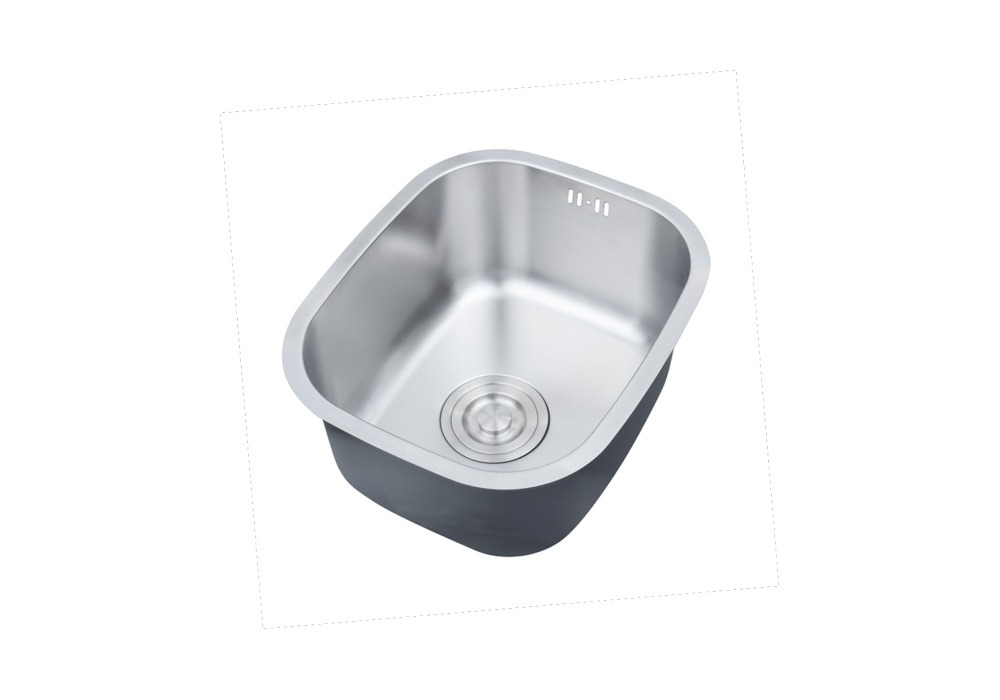
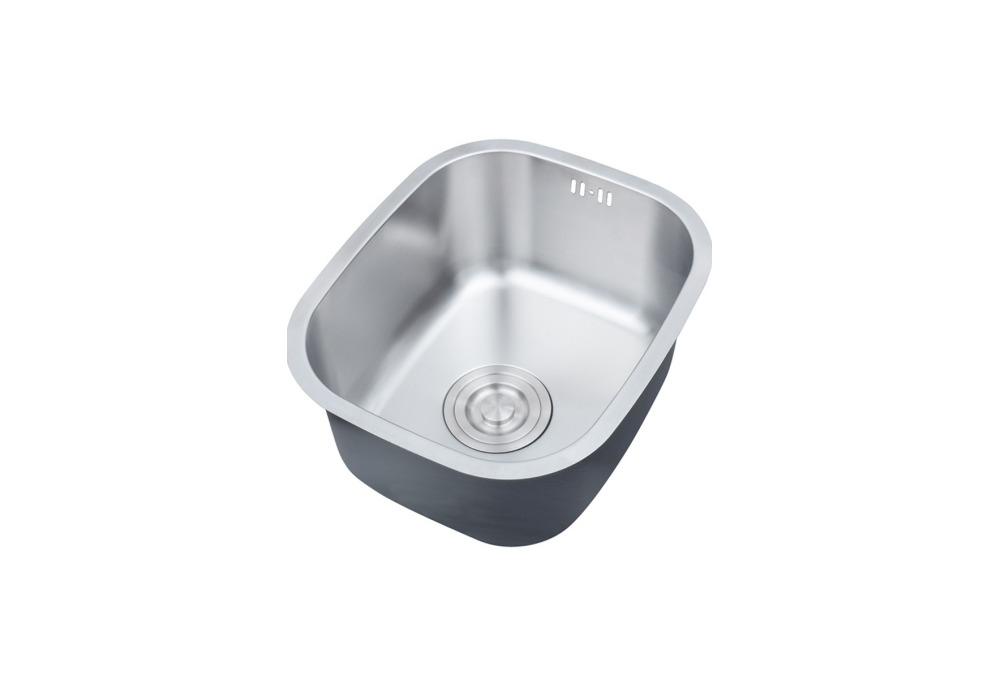
Fix sink image cache and source border (#70)

Changed region(s): [[0.279, 0.36, 0.682, 0.72], [0.279, 0.18, 0.713, 0.45], [0.341, 0.66, 0.589, 0.81]]

diff --git a/products/handmade-undermount-black-sink-series-06-07.html b/products/handmade-undermount-black-sink-series-06-07.html
@@ -4,4 +4,4 @@
 <meta charset="utf-8"><base href="/"><title>Handmade Undermount Black Sink Series | IanProject</title><meta name="viewport" content="width=device-width, initial-scale=1.0"><meta name="description" content="Handmade 304 stainless steel undermount black sink series with honeycomb-texture and nano-black finishes. Models 6843, 4540, 4035, 5540 and 6040. USD 11-46 per unit."><meta name="robots" content="index, follow, max-image-preview:large"><link rel="canonical" href="https://ianproject.com/products/handmade-undermount-black-sink-series-06-07"><meta property="og:type" content="product"><meta property="og:site_name" content="IanProject"><meta property="og:title" content="Handmade Undermount Black Sink Series | IanProject"><meta property="og:description" content="Handmade black undermount sinks in honeycomb-texture and nano-black finishes from catalogue pages 06 and 07."><meta property="og:url" content="https://ianproject.com/products/handmade-undermount-black-sink-series-06-07"><meta property="og:image" content="https://ianproject.com/img/products/handmade-undermount-black-sinks/1.jpg"><meta name="twitter:card" content="summary_large_image"><script type="application/ld+json">{"@context":"https://schema.org","@type":"Product","name":"Handmade Undermount Black Sink Series","image":["https://ianproject.com/img/products/handmade-undermount-black-sinks/1.jpg","https://ianproject.com/img/products/handmade-undermount-black-sinks/2.jpg","https://ianproject.com/img/products/handmade-undermount-black-sinks/3.jpg","https://ianproject.com/img/products/handmade-undermount-black-sinks/4.jpg"],"description":"Handmade 304 stainless steel undermount sinks with honeycomb-texture black and nano-black finishes.","sku":"6843-6040","category":"Kitchen Sinks","material":"304 stainless steel","offers":{"@type":"AggregateOffer","lowPrice":"11","highPrice":"46","priceCurrency":"USD","availability":"https://schema.org/PreOrder","seller":{"@type":"Organization","name":"IanProject"}}}</script><link href="img/favicon.svg" rel="icon"><link href="https://fonts.googleapis.com/css2?family=Open+Sans&family=Space+Grotesk&display=swap" rel="stylesheet"><link href="https://cdnjs.cloudflare.com/ajax/libs/font-awesome/5.10.0/css/all.min.css" rel="stylesheet"><link href="https://cdn.jsdelivr.net/npm/bootstrap-icons@1.4.1/font/bootstrap-icons.css" rel="stylesheet"><link href="css/bootstrap.min.css" rel="stylesheet"><link href="css/style.css?v=20260811-flooring" rel="stylesheet"></head><body>
 <div class="container-fluid sticky-top bg-light"><div class="container"><nav class="navbar navbar-expand-lg navbar-light bg-light border-bottom border-2 border-white"><a href="/" class="navbar-brand"><span class="site-brand mb-0">IAN<span class="text-primary">PROJECT</span></span></a><button class="navbar-toggler ms-auto me-0" data-bs-toggle="collapse" data-bs-target="#navbarCollapse" aria-label="Open navigation"><span class="navbar-toggler-icon"></span></button><div class="collapse navbar-collapse" id="navbarCollapse"><div class="navbar-nav ms-auto"><a href="/" class="nav-item nav-link">Home</a><a href="products" class="nav-item nav-link active">Products</a><a href="custom-solutions" class="nav-item nav-link">Custom Solutions</a><a href="about" class="nav-item nav-link">About</a><a href="contact" class="nav-item nav-link">Contact</a></div></div></nav></div></div><div class="container-fluid py-5 hero-header bg-light mb-5"><div class="container py-4"></div></div>
 <main class="container-fluid py-5"><article id="product-detail" class="container py-4" data-product-id="handmade-undermount-black-sink-series-06-07"><div class="row g-5 align-items-start"><div class="col-lg-6"><div class="product-detail-image"><img src="img/products/handmade-undermount-black-sinks/1.jpg" alt="Model 6843 handmade black undermount stainless steel sink" width="1200" height="1200" fetchpriority="high" decoding="async"></div></div><div class="col-lg-6"><p class="text-uppercase text-primary mb-2">Sinks / 6843-6040</p><h1>Handmade Undermount Black Sink Series</h1><p class="mb-4">Handmade 304 stainless steel undermount sinks in honeycomb-texture black and nano-black finishes.</p><div class="catalog-price"><strong>USD 11.00 - 46.00</strong><small>per unit</small></div><div class="d-flex flex-wrap gap-3"><a class="btn btn-primary px-4 py-3" href="/contact#quote-builder-form">Contact</a></div></div></div></article></main>
-<div class="container-fluid bg-dark text-white-50 footer pt-5"><div class="container py-5"><div class="row g-5"><div class="col-md-6"><a href="/"><h2 class="text-white">IANPROJECT</h2></a><p>Home products, custom furniture and interior solutions for international projects.</p></div><div class="col-md-6"><h5 class="text-white mb-4">Product Enquiries</h5><p><i class="fa fa-envelope me-3"></i>sales@ianproject.com</p><p><i class="fab fa-whatsapp me-3"></i>+86 199 5622 9033</p></div></div></div></div><script src="https://cdn.jsdelivr.net/npm/bootstrap@5.0.0/dist/js/bootstrap.bundle.min.js"></script><script src="js/catalog-data.js?v=20260811-flooring"></script><script src="js/catalog.js?v=20260813-pdf-sink-images"></script></body></html>
+<div class="container-fluid bg-dark text-white-50 footer pt-5"><div class="container py-5"><div class="row g-5"><div class="col-md-6"><a href="/"><h2 class="text-white">IANPROJECT</h2></a><p>Home products, custom furniture and interior solutions for international projects.</p></div><div class="col-md-6"><h5 class="text-white mb-4">Product Enquiries</h5><p><i class="fa fa-envelope me-3"></i>sales@ianproject.com</p><p><i class="fab fa-whatsapp me-3"></i>+86 199 5622 9033</p></div></div></div></div><script src="https://cdn.jsdelivr.net/npm/bootstrap@5.0.0/dist/js/bootstrap.bundle.min.js"></script><script src="js/catalog-data.js?v=20260811-flooring"></script><script src="js/catalog.js?v=20260813-pdf-sink-images-v2"></script></body></html>

diff --git a/products/handmade-topmount-sink-series-05.html b/products/handmade-topmount-sink-series-05.html
@@ -4,4 +4,4 @@
 <meta charset="utf-8"><base href="/"><title>Handmade Topmount Single-Bowl Sink Series | IanProject</title><meta name="viewport" content="width=device-width, initial-scale=1.0"><meta name="description" content="Handmade 304 stainless steel topmount single-bowl sink series with models 5040, 5243, 5545, 6045, 6845, 6848, 7548 and 8248. USD 14-53 per unit."><meta name="robots" content="index, follow, max-image-preview:large"><link rel="canonical" href="https://ianproject.com/products/handmade-topmount-sink-series-05"><meta property="og:type" content="product"><meta property="og:site_name" content="IanProject"><meta property="og:title" content="Handmade Topmount Single-Bowl Sink Series | IanProject"><meta property="og:description" content="Eight handmade 304 stainless steel topmount single-bowl sink models from catalogue page 05."><meta property="og:url" content="https://ianproject.com/products/handmade-topmount-sink-series-05"><meta property="og:image" content="https://ianproject.com/img/products/handmade-topmount-single-bowl-sinks/1.jpg"><meta name="twitter:card" content="summary_large_image"><script type="application/ld+json">{"@context":"https://schema.org","@type":"Product","name":"Handmade Topmount Single-Bowl Sink Series","image":["https://ianproject.com/img/products/handmade-topmount-single-bowl-sinks/1.jpg","https://ianproject.com/img/products/handmade-topmount-single-bowl-sinks/2.jpg","https://ianproject.com/img/products/handmade-topmount-single-bowl-sinks/3.jpg"],"description":"Handmade 304 stainless steel topmount single-bowl sink series with eight model options.","sku":"5040-8248","category":"Kitchen Sinks","material":"304 stainless steel","offers":{"@type":"AggregateOffer","lowPrice":"14","highPrice":"53","priceCurrency":"USD","availability":"https://schema.org/PreOrder","seller":{"@type":"Organization","name":"IanProject"}}}</script><link href="img/favicon.svg" rel="icon"><link href="https://fonts.googleapis.com/css2?family=Open+Sans&family=Space+Grotesk&display=swap" rel="stylesheet"><link href="https://cdnjs.cloudflare.com/ajax/libs/font-awesome/5.10.0/css/all.min.css" rel="stylesheet"><link href="https://cdn.jsdelivr.net/npm/bootstrap-icons@1.4.1/font/bootstrap-icons.css" rel="stylesheet"><link href="css/bootstrap.min.css" rel="stylesheet"><link href="css/style.css?v=20260811-flooring" rel="stylesheet"></head><body>
 <div class="container-fluid sticky-top bg-light"><div class="container"><nav class="navbar navbar-expand-lg navbar-light bg-light border-bottom border-2 border-white"><a href="/" class="navbar-brand"><span class="site-brand mb-0">IAN<span class="text-primary">PROJECT</span></span></a><button class="navbar-toggler ms-auto me-0" data-bs-toggle="collapse" data-bs-target="#navbarCollapse" aria-label="Open navigation"><span class="navbar-toggler-icon"></span></button><div class="collapse navbar-collapse" id="navbarCollapse"><div class="navbar-nav ms-auto"><a href="/" class="nav-item nav-link">Home</a><a href="products" class="nav-item nav-link active">Products</a><a href="custom-solutions" class="nav-item nav-link">Custom Solutions</a><a href="about" class="nav-item nav-link">About</a><a href="contact" class="nav-item nav-link">Contact</a></div></div></nav></div></div><div class="container-fluid py-5 hero-header bg-light mb-5"><div class="container py-4"></div></div>
 <main class="container-fluid py-5"><article id="product-detail" class="container py-4" data-product-id="handmade-topmount-sink-series-05"><div class="row g-5 align-items-start"><div class="col-lg-6"><div class="product-detail-image"><img src="img/products/handmade-topmount-single-bowl-sinks/1.jpg" alt="Handmade 304 stainless steel topmount single-bowl sink model 5040" width="1200" height="1200" fetchpriority="high" decoding="async"></div></div><div class="col-lg-6"><p class="text-uppercase text-primary mb-2">Sinks / 5040-8248</p><h1>Handmade Topmount Single-Bowl Sink Series</h1><p class="mb-4">Handmade 304 stainless steel topmount single-bowl sinks in eight sizes.</p><div class="catalog-price"><strong>USD 14.00 - 53.00</strong><small>per unit</small></div><div class="d-flex flex-wrap gap-3"><a class="btn btn-primary px-4 py-3" href="/contact#quote-builder-form">Contact</a></div></div></div></article></main>
-<div class="container-fluid bg-dark text-white-50 footer pt-5"><div class="container py-5"><div class="row g-5"><div class="col-md-6"><a href="/"><h2 class="text-white">IANPROJECT</h2></a><p>Home products, custom furniture and interior solutions for international projects.</p></div><div class="col-md-6"><h5 class="text-white mb-4">Product Enquiries</h5><p><i class="fa fa-envelope me-3"></i>sales@ianproject.com</p><p><i class="fab fa-whatsapp me-3"></i>+86 199 5622 9033</p></div></div></div></div><script src="https://cdn.jsdelivr.net/npm/bootstrap@5.0.0/dist/js/bootstrap.bundle.min.js"></script><script src="js/catalog-data.js?v=20260811-flooring"></script><script src="js/catalog.js?v=20260813-pdf-sink-images"></script></body></html>
+<div class="container-fluid bg-dark text-white-50 footer pt-5"><div class="container py-5"><div class="row g-5"><div class="col-md-6"><a href="/"><h2 class="text-white">IANPROJECT</h2></a><p>Home products, custom furniture and interior solutions for international projects.</p></div><div class="col-md-6"><h5 class="text-white mb-4">Product Enquiries</h5><p><i class="fa fa-envelope me-3"></i>sales@ianproject.com</p><p><i class="fab fa-whatsapp me-3"></i>+86 199 5622 9033</p></div></div></div></div><script src="https://cdn.jsdelivr.net/npm/bootstrap@5.0.0/dist/js/bootstrap.bundle.min.js"></script><script src="js/catalog-data.js?v=20260811-flooring"></script><script src="js/catalog.js?v=20260813-pdf-sink-images-v2"></script></body></html>

diff --git a/products/handmade-undermount-stainless-sink-series-08.html b/products/handmade-undermount-stainless-sink-series-08.html
@@ -4,4 +4,4 @@
 <meta charset="utf-8"><base href="/"><title>Handmade Undermount Stainless Steel Sink Series | IanProject</title><meta name="viewport" content="width=device-width, initial-scale=1.0"><meta name="description" content="Handmade 304 stainless steel undermount sink series with twelve sizes from model 4035 to 8146. USD 13-50 per unit."><meta name="robots" content="index, follow, max-image-preview:large"><link rel="canonical" href="https://ianproject.com/products/handmade-undermount-stainless-sink-series-08"><meta property="og:type" content="product"><meta property="og:site_name" content="IanProject"><meta property="og:title" content="Handmade Undermount Stainless Steel Sink Series | IanProject"><meta property="og:description" content="Twelve handmade 304 stainless steel undermount sink sizes from catalogue page 08."><meta property="og:url" content="https://ianproject.com/products/handmade-undermount-stainless-sink-series-08"><meta property="og:image" content="https://ianproject.com/img/products/handmade-undermount-silver-sinks/1.jpg"><meta name="twitter:card" content="summary_large_image"><script type="application/ld+json">{"@context":"https://schema.org","@type":"Product","name":"Handmade Undermount Stainless Steel Sink Series","image":["https://ianproject.com/img/products/handmade-undermount-silver-sinks/1.jpg","https://ianproject.com/img/products/handmade-undermount-silver-sinks/2.jpg","https://ianproject.com/img/products/handmade-undermount-silver-sinks/3.jpg"],"description":"Handmade 304 stainless steel undermount sink series with twelve size options.","sku":"8146-4035","category":"Kitchen Sinks","material":"304 stainless steel","offers":{"@type":"AggregateOffer","lowPrice":"13","highPrice":"50","priceCurrency":"USD","availability":"https://schema.org/PreOrder","seller":{"@type":"Organization","name":"IanProject"}}}</script><link href="img/favicon.svg" rel="icon"><link href="https://fonts.googleapis.com/css2?family=Open+Sans&family=Space+Grotesk&display=swap" rel="stylesheet"><link href="https://cdnjs.cloudflare.com/ajax/libs/font-awesome/5.10.0/css/all.min.css" rel="stylesheet"><link href="https://cdn.jsdelivr.net/npm/bootstrap-icons@1.4.1/font/bootstrap-icons.css" rel="stylesheet"><link href="css/bootstrap.min.css" rel="stylesheet"><link href="css/style.css?v=20260811-flooring" rel="stylesheet"></head><body>
 <div class="container-fluid sticky-top bg-light"><div class="container"><nav class="navbar navbar-expand-lg navbar-light bg-light border-bottom border-2 border-white"><a href="/" class="navbar-brand"><span class="site-brand mb-0">IAN<span class="text-primary">PROJECT</span></span></a><button class="navbar-toggler ms-auto me-0" data-bs-toggle="collapse" data-bs-target="#navbarCollapse" aria-label="Open navigation"><span class="navbar-toggler-icon"></span></button><div class="collapse navbar-collapse" id="navbarCollapse"><div class="navbar-nav ms-auto"><a href="/" class="nav-item nav-link">Home</a><a href="products" class="nav-item nav-link active">Products</a><a href="custom-solutions" class="nav-item nav-link">Custom Solutions</a><a href="about" class="nav-item nav-link">About</a><a href="contact" class="nav-item nav-link">Contact</a></div></div></nav></div></div><div class="container-fluid py-5 hero-header bg-light mb-5"><div class="container py-4"></div></div>
 <main class="container-fluid py-5"><article id="product-detail" class="container py-4" data-product-id="handmade-undermount-stainless-sink-series-08"><div class="row g-5 align-items-start"><div class="col-lg-6"><div class="product-detail-image"><img src="img/products/handmade-undermount-silver-sinks/1.jpg" alt="Handmade 304 stainless steel undermount sink model 8146" width="1200" height="1200" fetchpriority="high" decoding="async"></div></div><div class="col-lg-6"><p class="text-uppercase text-primary mb-2">Sinks / 8146-4035</p><h1>Handmade Undermount Stainless Steel Sink Series</h1><p class="mb-4">Handmade 304 stainless steel undermount sinks in twelve sizes.</p><div class="catalog-price"><strong>USD 13.00 - 50.00</strong><small>per unit</small></div><div class="d-flex flex-wrap gap-3"><a class="btn btn-primary px-4 py-3" href="/contact#quote-builder-form">Contact</a></div></div></div></article></main>
-<div class="container-fluid bg-dark text-white-50 footer pt-5"><div class="container py-5"><div class="row g-5"><div class="col-md-6"><a href="/"><h2 class="text-white">IANPROJECT</h2></a><p>Home products, custom furniture and interior solutions for international projects.</p></div><div class="col-md-6"><h5 class="text-white mb-4">Product Enquiries</h5><p><i class="fa fa-envelope me-3"></i>sales@ianproject.com</p><p><i class="fab fa-whatsapp me-3"></i>+86 199 5622 9033</p></div></div></div></div><script src="https://cdn.jsdelivr.net/npm/bootstrap@5.0.0/dist/js/bootstrap.bundle.min.js"></script><script src="js/catalog-data.js?v=20260811-flooring"></script><script src="js/catalog.js?v=20260813-pdf-sink-images"></script></body></html>
+<div class="container-fluid bg-dark text-white-50 footer pt-5"><div class="container py-5"><div class="row g-5"><div class="col-md-6"><a href="/"><h2 class="text-white">IANPROJECT</h2></a><p>Home products, custom furniture and interior solutions for international projects.</p></div><div class="col-md-6"><h5 class="text-white mb-4">Product Enquiries</h5><p><i class="fa fa-envelope me-3"></i>sales@ianproject.com</p><p><i class="fab fa-whatsapp me-3"></i>+86 199 5622 9033</p></div></div></div></div><script src="https://cdn.jsdelivr.net/npm/bootstrap@5.0.0/dist/js/bootstrap.bundle.min.js"></script><script src="js/catalog-data.js?v=20260811-flooring"></script><script src="js/catalog.js?v=20260813-pdf-sink-images-v2"></script></body></html>

diff --git a/products/handmade-topmount-sink-series-04.html b/products/handmade-topmount-sink-series-04.html
@@ -4,4 +4,4 @@
 <meta charset="utf-8"><base href="/"><title>Handmade Topmount Sink Series | IanProject</title><meta name="viewport" content="width=device-width, initial-scale=1.0"><meta name="description" content="Handmade 304 stainless steel topmount sink series with models 8248, 8245, 7843, 8045, 7541 and 7240. USD 12-48 per unit."><meta name="robots" content="index, follow, max-image-preview:large"><link rel="canonical" href="https://ianproject.com/products/handmade-topmount-sink-series-04"><meta property="og:type" content="product"><meta property="og:site_name" content="IanProject"><meta property="og:title" content="Handmade Topmount Sink Series | IanProject"><meta property="og:description" content="Six handmade 304 stainless steel topmount sink models from catalogue page 04."><meta property="og:url" content="https://ianproject.com/products/handmade-topmount-sink-series-04"><meta property="og:image" content="https://ianproject.com/img/products/handmade-topmount-double-bowl-sinks/1.jpg"><meta name="twitter:card" content="summary_large_image"><script type="application/ld+json">{"@context":"https://schema.org","@type":"Product","name":"Handmade Topmount Sink Series","image":["https://ianproject.com/img/products/handmade-topmount-double-bowl-sinks/1.jpg","https://ianproject.com/img/products/handmade-topmount-double-bowl-sinks/2.jpg","https://ianproject.com/img/products/handmade-topmount-double-bowl-sinks/3.jpg"],"description":"Handmade 304 stainless steel topmount sink series with six model options.","sku":"8248-7240","category":"Kitchen Sinks","material":"304 stainless steel","offers":{"@type":"AggregateOffer","lowPrice":"12","highPrice":"48","priceCurrency":"USD","availability":"https://schema.org/PreOrder","seller":{"@type":"Organization","name":"IanProject"}}}</script><link href="img/favicon.svg" rel="icon"><link href="https://fonts.googleapis.com/css2?family=Open+Sans&family=Space+Grotesk&display=swap" rel="stylesheet"><link href="https://cdnjs.cloudflare.com/ajax/libs/font-awesome/5.10.0/css/all.min.css" rel="stylesheet"><link href="https://cdn.jsdelivr.net/npm/bootstrap-icons@1.4.1/font/bootstrap-icons.css" rel="stylesheet"><link href="css/bootstrap.min.css" rel="stylesheet"><link href="css/style.css?v=20260811-flooring" rel="stylesheet"></head><body>
 <div class="container-fluid sticky-top bg-light"><div class="container"><nav class="navbar navbar-expand-lg navbar-light bg-light border-bottom border-2 border-white"><a href="/" class="navbar-brand"><span class="site-brand mb-0">IAN<span class="text-primary">PROJECT</span></span></a><button class="navbar-toggler ms-auto me-0" data-bs-toggle="collapse" data-bs-target="#navbarCollapse" aria-label="Open navigation"><span class="navbar-toggler-icon"></span></button><div class="collapse navbar-collapse" id="navbarCollapse"><div class="navbar-nav ms-auto"><a href="/" class="nav-item nav-link">Home</a><a href="products" class="nav-item nav-link active">Products</a><a href="custom-solutions" class="nav-item nav-link">Custom Solutions</a><a href="about" class="nav-item nav-link">About</a><a href="contact" class="nav-item nav-link">Contact</a></div></div></nav></div></div><div class="container-fluid py-5 hero-header bg-light mb-5"><div class="container py-4"></div></div>
 <main class="container-fluid py-5"><article id="product-detail" class="container py-4" data-product-id="handmade-topmount-sink-series-04"><div class="row g-5 align-items-start"><div class="col-lg-6"><div class="product-detail-image"><img src="img/products/handmade-topmount-double-bowl-sinks/1.jpg" alt="Handmade 304 stainless steel topmount sink model 8248" width="1200" height="1200" fetchpriority="high" decoding="async"></div></div><div class="col-lg-6"><p class="text-uppercase text-primary mb-2">Sinks / 8248-7240</p><h1>Handmade Topmount Sink Series</h1><p class="mb-4">Handmade 304 stainless steel topmount sinks in six sizes.</p><div class="catalog-price"><strong>USD 12.00 - 48.00</strong><small>per unit</small></div><div class="d-flex flex-wrap gap-3"><a class="btn btn-primary px-4 py-3" href="/contact#quote-builder-form">Contact</a></div></div></div></article></main>
-<div class="container-fluid bg-dark text-white-50 footer pt-5"><div class="container py-5"><div class="row g-5"><div class="col-md-6"><a href="/"><h2 class="text-white">IANPROJECT</h2></a><p>Home products, custom furniture and interior solutions for international projects.</p></div><div class="col-md-6"><h5 class="text-white mb-4">Product Enquiries</h5><p><i class="fa fa-envelope me-3"></i>sales@ianproject.com</p><p><i class="fab fa-whatsapp me-3"></i>+86 199 5622 9033</p></div></div></div></div><script src="https://cdn.jsdelivr.net/npm/bootstrap@5.0.0/dist/js/bootstrap.bundle.min.js"></script><script src="js/catalog-data.js?v=20260811-flooring"></script><script src="js/catalog.js?v=20260813-pdf-sink-images"></script></body></html>
+<div class="container-fluid bg-dark text-white-50 footer pt-5"><div class="container py-5"><div class="row g-5"><div class="col-md-6"><a href="/"><h2 class="text-white">IANPROJECT</h2></a><p>Home products, custom furniture and interior solutions for international projects.</p></div><div class="col-md-6"><h5 class="text-white mb-4">Product Enquiries</h5><p><i class="fa fa-envelope me-3"></i>sales@ianproject.com</p><p><i class="fab fa-whatsapp me-3"></i>+86 199 5622 9033</p></div></div></div></div><script src="https://cdn.jsdelivr.net/npm/bootstrap@5.0.0/dist/js/bootstrap.bundle.min.js"></script><script src="js/catalog-data.js?v=20260811-flooring"></script><script src="js/catalog.js?v=20260813-pdf-sink-images-v2"></script></body></html>

diff --git a/products/drawn-undermount-single-bowl-sink-series-21-22.html b/products/drawn-undermount-single-bowl-sink-series-21-22.html
@@ -1,1 +1,1 @@
-<!DOCTYPE html><html lang="en"><head><meta charset="utf-8"><base href="/"><title>Drawn Undermount Single-Bowl Sink Series | IanProject</title><meta name="viewport" content="width=device-width, initial-scale=1.0"><meta name="description" content="Drawn 304 stainless steel undermount single-bowl sink series from catalogue pages 21-22. USD 11-47 per unit."><meta name="robots" content="index, follow, max-image-preview:large"><link rel="canonical" href="https://ianproject.com/products/drawn-undermount-single-bowl-sink-series-21-22"><meta property="og:type" content="product"><meta property="og:title" content="Drawn Undermount Single-Bowl Sink Series | IanProject"><meta property="og:image" content="https://ianproject.com/img/products/drawn-undermount-single-bowl-sinks/1.jpg"><link href="img/favicon.svg" rel="icon"><link href="https://fonts.googleapis.com/css2?family=Open+Sans&family=Space+Grotesk&display=swap" rel="stylesheet"><link href="https://cdnjs.cloudflare.com/ajax/libs/font-awesome/5.10.0/css/all.min.css" rel="stylesheet"><link href="css/bootstrap.min.css" rel="stylesheet"><link href="css/style.css?v=20260813-image-layout" rel="stylesheet"></head><body><main class="container-fluid py-5"><article id="product-detail" class="container py-4" data-product-id="drawn-undermount-single-bowl-sink-series-21-22"><h1>Drawn Undermount Single-Bowl Sink Series</h1><p>Thirteen 304 stainless steel one-piece drawn sink models.</p></article></main><script src="js/catalog-data.js?v=20260811-flooring"></script><script src="js/sink-series-batch-12-22.js?v=20260813-image-layout"></script><script src="js/catalog.js?v=20260813-pdf-sink-images"></script></body></html>
+<!DOCTYPE html><html lang="en"><head><meta charset="utf-8"><base href="/"><title>Drawn Undermount Single-Bowl Sink Series | IanProject</title><meta name="viewport" content="width=device-width, initial-scale=1.0"><meta name="description" content="Drawn 304 stainless steel undermount single-bowl sink series from catalogue pages 21-22. USD 11-47 per unit."><meta name="robots" content="index, follow, max-image-preview:large"><link rel="canonical" href="https://ianproject.com/products/drawn-undermount-single-bowl-sink-series-21-22"><meta property="og:type" content="product"><meta property="og:title" content="Drawn Undermount Single-Bowl Sink Series | IanProject"><meta property="og:image" content="https://ianproject.com/img/products/drawn-undermount-single-bowl-sinks/1.jpg"><link href="img/favicon.svg" rel="icon"><link href="https://fonts.googleapis.com/css2?family=Open+Sans&family=Space+Grotesk&display=swap" rel="stylesheet"><link href="https://cdnjs.cloudflare.com/ajax/libs/font-awesome/5.10.0/css/all.min.css" rel="stylesheet"><link href="css/bootstrap.min.css" rel="stylesheet"><link href="css/style.css?v=20260813-image-layout" rel="stylesheet"></head><body><main class="container-fluid py-5"><article id="product-detail" class="container py-4" data-product-id="drawn-undermount-single-bowl-sink-series-21-22"><h1>Drawn Undermount Single-Bowl Sink Series</h1><p>Thirteen 304 stainless steel one-piece drawn sink models.</p></article></main><script src="js/catalog-data.js?v=20260811-flooring"></script><script src="js/sink-series-batch-12-22.js?v=20260813-pdf-sink-data"></script><script src="js/catalog.js?v=20260813-pdf-sink-images-v2"></script></body></html>

diff --git a/products/drawn-double-bowl-sink-series-14-16.html b/products/drawn-double-bowl-sink-series-14-16.html
@@ -1,1 +1,1 @@
-<!DOCTYPE html><html lang="en"><head><meta charset="utf-8"><base href="/"><title>Drawn Double-Bowl Sink Series | IanProject</title><meta name="viewport" content="width=device-width, initial-scale=1.0"><meta name="description" content="Drawn 304 stainless steel double-bowl sink series from catalogue pages 14-16. USD 12-49 per unit."><meta name="robots" content="index, follow, max-image-preview:large"><link rel="canonical" href="https://ianproject.com/products/drawn-double-bowl-sink-series-14-16"><meta property="og:type" content="product"><meta property="og:title" content="Drawn Double-Bowl Sink Series | IanProject"><meta property="og:image" content="https://ianproject.com/img/products/drawn-double-bowl-sinks/1.jpg"><link href="img/favicon.svg" rel="icon"><link href="https://fonts.googleapis.com/css2?family=Open+Sans&family=Space+Grotesk&display=swap" rel="stylesheet"><link href="https://cdnjs.cloudflare.com/ajax/libs/font-awesome/5.10.0/css/all.min.css" rel="stylesheet"><link href="css/bootstrap.min.css" rel="stylesheet"><link href="css/style.css?v=20260811-flooring" rel="stylesheet"></head><body><main class="container-fluid py-5"><article id="product-detail" class="container py-4" data-product-id="drawn-double-bowl-sink-series-14-16"><h1>Drawn Double-Bowl Sink Series</h1><p>304 stainless steel one-piece drawn double-bowl sink models.</p></article></main><script src="js/catalog-data.js?v=20260811-flooring"></script><script src="js/sink-series-batch-12-22.js?v=20260811-sink-batch12-22"></script><script src="js/catalog.js?v=20260813-pdf-sink-images"></script></body></html>
+<!DOCTYPE html><html lang="en"><head><meta charset="utf-8"><base href="/"><title>Drawn Double-Bowl Sink Series | IanProject</title><meta name="viewport" content="width=device-width, initial-scale=1.0"><meta name="description" content="Drawn 304 stainless steel double-bowl sink series from catalogue pages 14-16. USD 12-49 per unit."><meta name="robots" content="index, follow, max-image-preview:large"><link rel="canonical" href="https://ianproject.com/products/drawn-double-bowl-sink-series-14-16"><meta property="og:type" content="product"><meta property="og:title" content="Drawn Double-Bowl Sink Series | IanProject"><meta property="og:image" content="https://ianproject.com/img/products/drawn-double-bowl-sinks/1.jpg"><link href="img/favicon.svg" rel="icon"><link href="https://fonts.googleapis.com/css2?family=Open+Sans&family=Space+Grotesk&display=swap" rel="stylesheet"><link href="https://cdnjs.cloudflare.com/ajax/libs/font-awesome/5.10.0/css/all.min.css" rel="stylesheet"><link href="css/bootstrap.min.css" rel="stylesheet"><link href="css/style.css?v=20260811-flooring" rel="stylesheet"></head><body><main class="container-fluid py-5"><article id="product-detail" class="container py-4" data-product-id="drawn-double-bowl-sink-series-14-16"><h1>Drawn Double-Bowl Sink Series</h1><p>304 stainless steel one-piece drawn double-bowl sink models.</p></article></main><script src="js/catalog-data.js?v=20260811-flooring"></script><script src="js/sink-series-batch-12-22.js?v=20260813-pdf-sink-data"></script><script src="js/catalog.js?v=20260813-pdf-sink-images-v2"></script></body></html>

diff --git a/products/drawn-single-bowl-sink-series-17-19.html b/products/drawn-single-bowl-sink-series-17-19.html
@@ -1,1 +1,1 @@
-<!DOCTYPE html><html lang="en"><head><meta charset="utf-8"><base href="/"><title>Drawn Single-Bowl Sink Series | IanProject</title><meta name="viewport" content="width=device-width, initial-scale=1.0"><meta name="description" content="Drawn 304 stainless steel single-bowl sink series from catalogue pages 17-19. USD 14-54 per unit."><meta name="robots" content="index, follow, max-image-preview:large"><link rel="canonical" href="https://ianproject.com/products/drawn-single-bowl-sink-series-17-19"><meta property="og:type" content="product"><meta property="og:title" content="Drawn Single-Bowl Sink Series | IanProject"><meta property="og:image" content="https://ianproject.com/img/products/drawn-single-bowl-sinks/1.jpg"><link href="img/favicon.svg" rel="icon"><link href="https://fonts.googleapis.com/css2?family=Open+Sans&family=Space+Grotesk&display=swap" rel="stylesheet"><link href="https://cdnjs.cloudflare.com/ajax/libs/font-awesome/5.10.0/css/all.min.css" rel="stylesheet"><link href="css/bootstrap.min.css" rel="stylesheet"><link href="css/style.css?v=20260811-flooring" rel="stylesheet"></head><body><main class="container-fluid py-5"><article id="product-detail" class="container py-4" data-product-id="drawn-single-bowl-sink-series-17-19"><h1>Drawn Single-Bowl Sink Series</h1><p>304 stainless steel one-piece drawn single-bowl sink models.</p></article></main><script src="js/catalog-data.js?v=20260811-flooring"></script><script src="js/sink-series-batch-12-22.js?v=20260811-sink-batch12-22"></script><script src="js/catalog.js?v=20260813-pdf-sink-images"></script></body></html>
+<!DOCTYPE html><html lang="en"><head><meta charset="utf-8"><base href="/"><title>Drawn Single-Bowl Sink Series | IanProject</title><meta name="viewport" content="width=device-width, initial-scale=1.0"><meta name="description" content="Drawn 304 stainless steel single-bowl sink series from catalogue pages 17-19. USD 14-54 per unit."><meta name="robots" content="index, follow, max-image-preview:large"><link rel="canonical" href="https://ianproject.com/products/drawn-single-bowl-sink-series-17-19"><meta property="og:type" content="product"><meta property="og:title" content="Drawn Single-Bowl Sink Series | IanProject"><meta property="og:image" content="https://ianproject.com/img/products/drawn-single-bowl-sinks/1.jpg"><link href="img/favicon.svg" rel="icon"><link href="https://fonts.googleapis.com/css2?family=Open+Sans&family=Space+Grotesk&display=swap" rel="stylesheet"><link href="https://cdnjs.cloudflare.com/ajax/libs/font-awesome/5.10.0/css/all.min.css" rel="stylesheet"><link href="css/bootstrap.min.css" rel="stylesheet"><link href="css/style.css?v=20260811-flooring" rel="stylesheet"></head><body><main class="container-fluid py-5"><article id="product-detail" class="container py-4" data-product-id="drawn-single-bowl-sink-series-17-19"><h1>Drawn Single-Bowl Sink Series</h1><p>304 stainless steel one-piece drawn single-bowl sink models.</p></article></main><script src="js/catalog-data.js?v=20260811-flooring"></script><script src="js/sink-series-batch-12-22.js?v=20260813-pdf-sink-data"></script><script src="js/catalog.js?v=20260813-pdf-sink-images-v2"></script></body></html>

diff --git a/products/round-stainless-steel-sink-series-13.html b/products/round-stainless-steel-sink-series-13.html
@@ -1,1 +1,1 @@
-<!DOCTYPE html><html lang="en"><head><meta charset="utf-8"><base href="/"><title>Round Stainless Steel Sink Series | IanProject</title><meta name="viewport" content="width=device-width, initial-scale=1.0"><meta name="description" content="Round 304 stainless steel drawn sink series in eight sizes. USD 15-55 per unit."><meta name="robots" content="index, follow, max-image-preview:large"><link rel="canonical" href="https://ianproject.com/products/round-stainless-steel-sink-series-13"><meta property="og:type" content="product"><meta property="og:title" content="Round Stainless Steel Sink Series | IanProject"><meta property="og:image" content="https://ianproject.com/img/products/round-stainless-steel-sinks/1.jpg"><link href="img/favicon.svg" rel="icon"><link href="https://fonts.googleapis.com/css2?family=Open+Sans&family=Space+Grotesk&display=swap" rel="stylesheet"><link href="https://cdnjs.cloudflare.com/ajax/libs/font-awesome/5.10.0/css/all.min.css" rel="stylesheet"><link href="css/bootstrap.min.css" rel="stylesheet"><link href="css/style.css?v=20260813-image-layout" rel="stylesheet"></head><body><main class="container-fluid py-5"><article id="product-detail" class="container py-4" data-product-id="round-stainless-steel-sink-series-13"><h1>Round Stainless Steel Sink Series</h1><p>Eight 304 stainless steel one-piece drawn sink sizes.</p></article></main><script src="js/catalog-data.js?v=20260811-flooring"></script><script src="js/sink-series-batch-12-22.js?v=20260813-image-layout"></script><script src="js/catalog.js?v=20260813-pdf-sink-images"></script></body></html>
+<!DOCTYPE html><html lang="en"><head><meta charset="utf-8"><base href="/"><title>Round Stainless Steel Sink Series | IanProject</title><meta name="viewport" content="width=device-width, initial-scale=1.0"><meta name="description" content="Round 304 stainless steel drawn sink series in eight sizes. USD 15-55 per unit."><meta name="robots" content="index, follow, max-image-preview:large"><link rel="canonical" href="https://ianproject.com/products/round-stainless-steel-sink-series-13"><meta property="og:type" content="product"><meta property="og:title" content="Round Stainless Steel Sink Series | IanProject"><meta property="og:image" content="https://ianproject.com/img/products/round-stainless-steel-sinks/1.jpg"><link href="img/favicon.svg" rel="icon"><link href="https://fonts.googleapis.com/css2?family=Open+Sans&family=Space+Grotesk&display=swap" rel="stylesheet"><link href="https://cdnjs.cloudflare.com/ajax/libs/font-awesome/5.10.0/css/all.min.css" rel="stylesheet"><link href="css/bootstrap.min.css" rel="stylesheet"><link href="css/style.css?v=20260813-image-layout" rel="stylesheet"></head><body><main class="container-fluid py-5"><article id="product-detail" class="container py-4" data-product-id="round-stainless-steel-sink-series-13"><h1>Round Stainless Steel Sink Series</h1><p>Eight 304 stainless steel one-piece drawn sink sizes.</p></article></main><script src="js/catalog-data.js?v=20260811-flooring"></script><script src="js/sink-series-batch-12-22.js?v=20260813-pdf-sink-data"></script><script src="js/catalog.js?v=20260813-pdf-sink-images-v2"></script></body></html>

diff --git a/products/round-nano-black-sink-series-12.html b/products/round-nano-black-sink-series-12.html
@@ -1,1 +1,1 @@
-<!DOCTYPE html><html lang="en"><head><meta charset="utf-8"><base href="/"><title>Round Nano-Black Sink Series | IanProject</title><meta name="viewport" content="width=device-width, initial-scale=1.0"><meta name="description" content="Round nano-black 201 stainless steel drawn sink series in seven sizes. USD 10-42 per unit."><meta name="robots" content="index, follow, max-image-preview:large"><link rel="canonical" href="https://ianproject.com/products/round-nano-black-sink-series-12"><meta property="og:type" content="product"><meta property="og:title" content="Round Nano-Black Sink Series | IanProject"><meta property="og:image" content="https://ianproject.com/img/products/round-nano-black-sinks/1.jpg"><link href="img/favicon.svg" rel="icon"><link href="https://fonts.googleapis.com/css2?family=Open+Sans&family=Space+Grotesk&display=swap" rel="stylesheet"><link href="https://cdnjs.cloudflare.com/ajax/libs/font-awesome/5.10.0/css/all.min.css" rel="stylesheet"><link href="css/bootstrap.min.css" rel="stylesheet"><link href="css/style.css?v=20260811-flooring" rel="stylesheet"></head><body><main class="container-fluid py-5"><article id="product-detail" class="container py-4" data-product-id="round-nano-black-sink-series-12"><h1>Round Nano-Black Sink Series</h1><p>Seven 201 stainless steel one-piece drawn sink sizes.</p></article></main><script src="js/catalog-data.js?v=20260811-flooring"></script><script src="js/sink-series-batch-12-22.js?v=20260811-sink-batch12-22"></script><script src="js/catalog.js?v=20260813-pdf-sink-images"></script></body></html>
+<!DOCTYPE html><html lang="en"><head><meta charset="utf-8"><base href="/"><title>Round Nano-Black Sink Series | IanProject</title><meta name="viewport" content="width=device-width, initial-scale=1.0"><meta name="description" content="Round nano-black 201 stainless steel drawn sink series in seven sizes. USD 10-42 per unit."><meta name="robots" content="index, follow, max-image-preview:large"><link rel="canonical" href="https://ianproject.com/products/round-nano-black-sink-series-12"><meta property="og:type" content="product"><meta property="og:title" content="Round Nano-Black Sink Series | IanProject"><meta property="og:image" content="https://ianproject.com/img/products/round-nano-black-sinks/1.jpg"><link href="img/favicon.svg" rel="icon"><link href="https://fonts.googleapis.com/css2?family=Open+Sans&family=Space+Grotesk&display=swap" rel="stylesheet"><link href="https://cdnjs.cloudflare.com/ajax/libs/font-awesome/5.10.0/css/all.min.css" rel="stylesheet"><link href="css/bootstrap.min.css" rel="stylesheet"><link href="css/style.css?v=20260811-flooring" rel="stylesheet"></head><body><main class="container-fluid py-5"><article id="product-detail" class="container py-4" data-product-id="round-nano-black-sink-series-12"><h1>Round Nano-Black Sink Series</h1><p>Seven 201 stainless steel one-piece drawn sink sizes.</p></article></main><script src="js/catalog-data.js?v=20260811-flooring"></script><script src="js/sink-series-batch-12-22.js?v=20260813-pdf-sink-data"></script><script src="js/catalog.js?v=20260813-pdf-sink-images-v2"></script></body></html>

diff --git a/js/catalog.js b/js/catalog.js
@@ -314,7 +314,7 @@
             product.catalogueRows.map(function (row) {
                 return '<div class="row g-4 ' + (row.models.length === 1 ? 'align-items-center' : 'align-items-start') + ' py-5 border-bottom">' +
                     '<div class="col-lg-6"><img class="img-fluid d-block" style="width:100%;height:340px;object-fit:contain;object-position:center" src="' +
-                    escapeHtml(row.image) + '?v=20260813-pdf-source" alt="' + escapeHtml(row.imageAlt || product.imageAlt) + '"></div>' +
+                    escapeHtml(row.image) + '?v=20260813-pdf-source-v2" alt="' + escapeHtml(row.imageAlt || product.imageAlt) + '"></div>' +
                     '<div class="col-lg-6">' + row.models.map(function (model, modelIndex) {
                         var modelClass = modelIndex === row.models.length - 1 ? 'pb-3 mb-3' : 'pb-3 mb-3 border-bottom';
                         return '<div class="' + modelClass + '"><h2 class="mb-2">' + escapeHtml(model.code) +

diff --git a/product.html b/product.html
@@ -103,7 +103,7 @@
     <script src="https://cdn.jsdelivr.net/npm/bootstrap@5.0.0/dist/js/bootstrap.bundle.min.js"></script>
     <script src="js/catalog-data.js?v=20260811-countertop-effects"></script>
     <script src="js/flooring-pages-13-33.js?v=20260811-countertop-effects-pages13-33"></script>
-    <script src="js/catalog.js?v=20260813-pdf-sink-images"></script>
+    <script src="js/catalog.js?v=20260813-pdf-sink-images-v2"></script>
 </body>
 
 </html>
